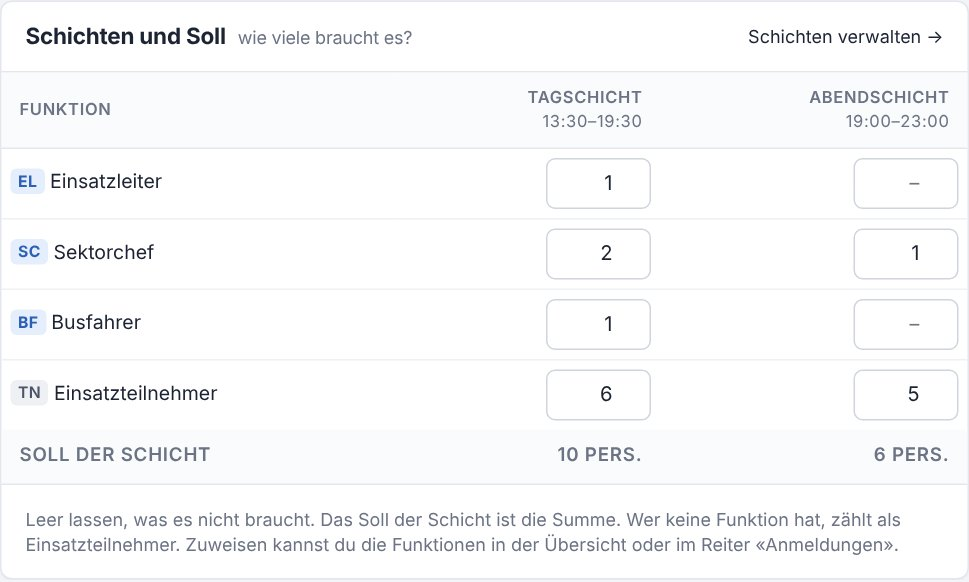
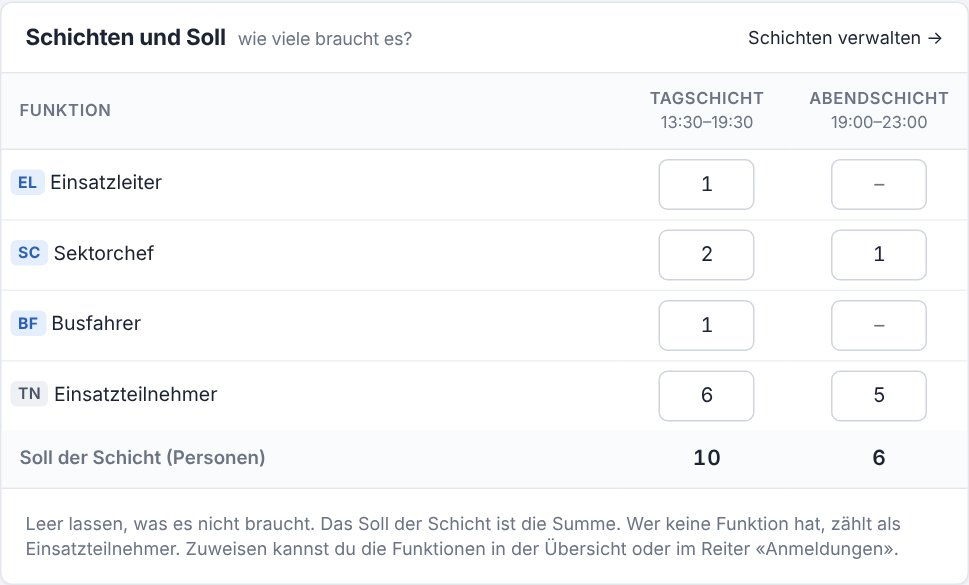
Schichten und Soll: Zahlen zentriert, schmale Spalten, Summe genau unter den Feldern
Claude-Session: https://claude.ai/code/session_01EBemd4BS1u7YnZCuF9vvm8

diff --git a/public/css/app.css b/public/css/app.css
@@ -743,10 +743,19 @@ tr.changed td:first-child { box-shadow: inset 3px 0 0 var(--orange, #e8742a); }
 .fn-suggest { display: flex; align-items: center; justify-content: space-between; gap: 8px; flex-wrap: wrap; font-size: 12.5px; }
 .card-body.fn-line { border-bottom: 1px solid var(--border-soft); padding-top: 8px; padding-bottom: 8px; }
 @media print { .fn-tag { border: 1px solid #999; background: none !important; color: #000 !important; } }
-.fn-grid input { width: 70px; text-align: right; }
-.fn-grid th .sub { display: block; font-weight: 400; font-size: 11px; }
-.fn-grid tfoot th { font-size: 12.5px; }
-.form-table .fn-col input { width: 54px; }
+/* Soll pro Schicht und Funktion: schmale, zentrierte Zahlenspalten, Summe genau unter den Feldern */
+.fn-grid { width: auto; }
+.fn-grid th:first-child, .fn-grid td:first-child { width: 100%; }
+.fn-grid .fn-cell { width: 112px; min-width: 112px; text-align: center; white-space: normal; }
+.fn-grid th.fn-cell .sub { display: block; font-weight: 400; font-size: 11px; text-transform: none; letter-spacing: 0; }
+.fn-grid tfoot th { font-size: 12.5px; vertical-align: middle; }
+.fn-grid tfoot th:first-child { text-transform: none; letter-spacing: 0; }
+.fn-sum { display: inline-block; width: 64px; text-align: center; font-size: 14px; font-variant-numeric: tabular-nums; color: var(--text); }
+.fn-grid input, .form-table .fn-col input { width: 64px; text-align: center; padding-left: 4px; padding-right: 4px; font-variant-numeric: tabular-nums; -moz-appearance: textfield; appearance: textfield; }
+.fn-grid input::-webkit-outer-spin-button, .fn-grid input::-webkit-inner-spin-button,
+.form-table .fn-col input::-webkit-outer-spin-button, .form-table .fn-col input::-webkit-inner-spin-button { -webkit-appearance: none; margin: 0; }
+.form-table td.fn-col { text-align: center; }
+.form-table .fn-col input { width: 52px; }
 .form-table th.fn-col { text-align: center; }
 .fn-line-shift { margin-top: 6px; width: 100%; }
 .fn-shift + .fn-shift { margin-top: 16px; padding-top: 12px; border-top: 1px solid var(--border-soft); }
